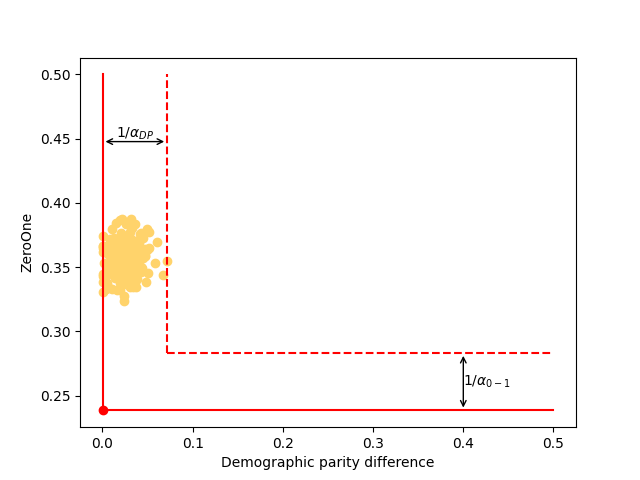
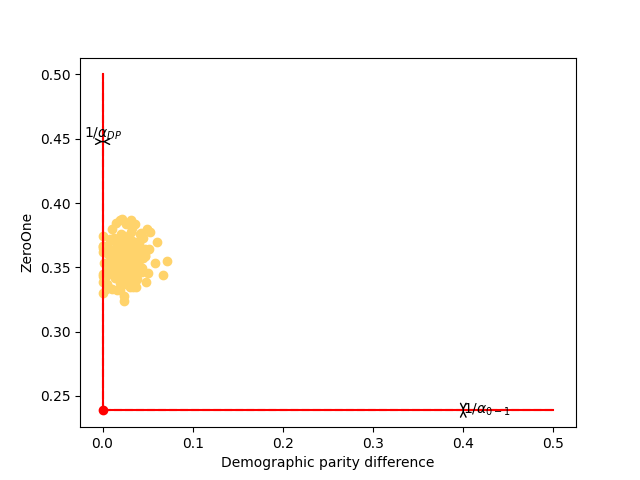
changed compute_alpha and produced new plots

diff --git a/main.py b/main.py
@@ -11,6 +11,7 @@ import time
 from sklearn.utils import shuffle
 import warnings
 import copy
+import math
 import argparse
 from tqdm import tqdm
 warnings.filterwarnings('ignore')
@@ -459,19 +460,26 @@ class Super_human:
       for j in range(self.num_of_demos):
         sample_loss = self.sample_loss[j, k]
         demo_loss = self.demo_list[j].metric[k] 
+        #print("sample_loss: ", sample_loss)
+        #print("demo_loss: ", demo_loss)
+        #print("(demo_loss - sample_loss): ", (demo_loss - sample_loss))
         if sample_loss <= demo_loss:
           alpha_candidate = 1.0/(demo_loss - sample_loss)
-          dominated_demos.append((alpha_candidate, demo_loss, sample_loss))
+          if not math.isinf(alpha_candidate):
+            dominated_demos.append((alpha_candidate, demo_loss, sample_loss))
       
-      avg_inverse_demo_loss = np.mean([1.0/x[1] for x in dominated_demos])
-      dominated_demos.sort(key = lambda x: x[0])    # sort based on demo loss
+      #avg_inverse_demo_loss = np.mean([1.0/x[1] for x in dominated_demos])
+      dominated_demos.sort(key = lambda x: x[0], reverse=True)    # sort based on demo loss
       dominated_demos = np.array(dominated_demos)
 
       for m, demo in enumerate(dominated_demos):
+        #avg_inverse_demo_loss = [1.0/x[1] for x in dominated_demos[0:m+1]]
+        #if demo[2] == 0 or 
         print("dominated_demo ", demo)
         print("m ", m)
         print("dominated_demos[0:m+1] ", dominated_demos[0:m+1])
         if (1.0/demo[2]) >= np.mean([1.0/x[1] for x in dominated_demos[0:m+1]]): #avg_inverse_demo_loss:
+          print("in if, dominated_demo ", demo)
           alpha[k] = demo[0]
           break
 
@@ -651,7 +659,7 @@ class Super_human:
 lr_theta_list = [0.05] #[0.05, 0.1, 0.5, 1.0]
 lr_theta = 0.01
 lr_alpha = 0.05
-iters = 20
+iters = 10
 dataset = "Adult"
 num_of_demos = 200
 num_of_features = 5
